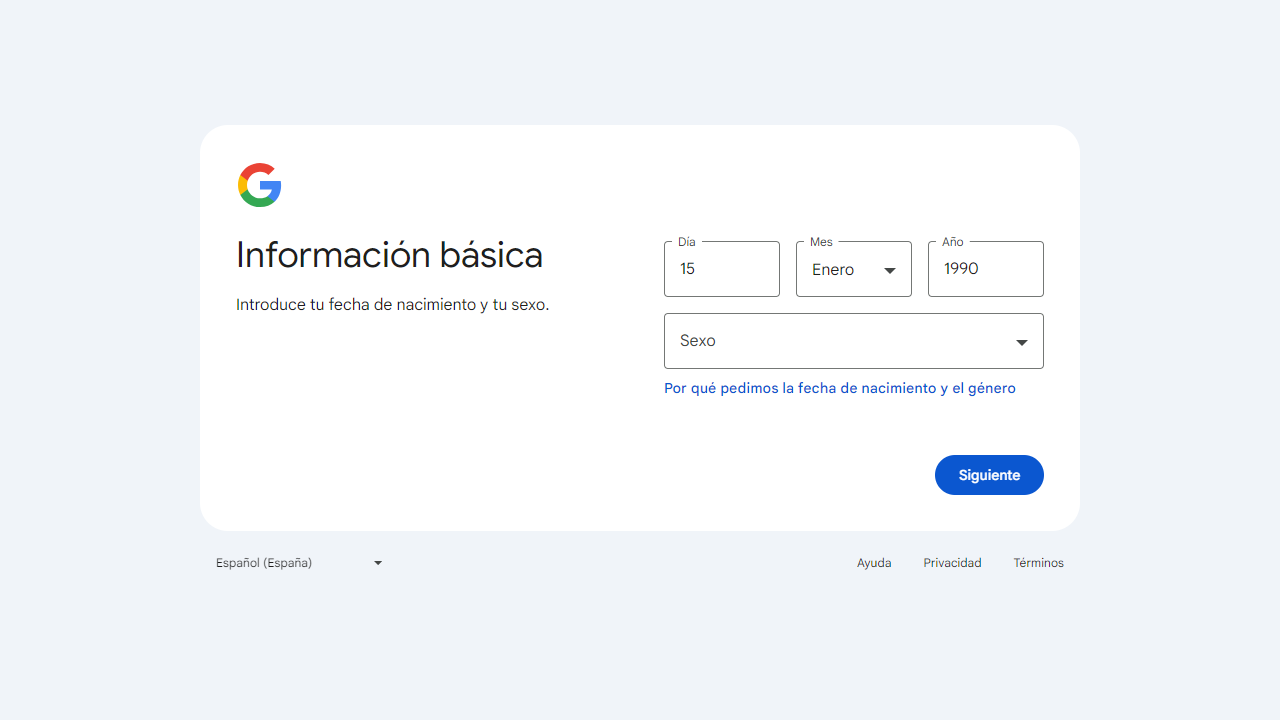
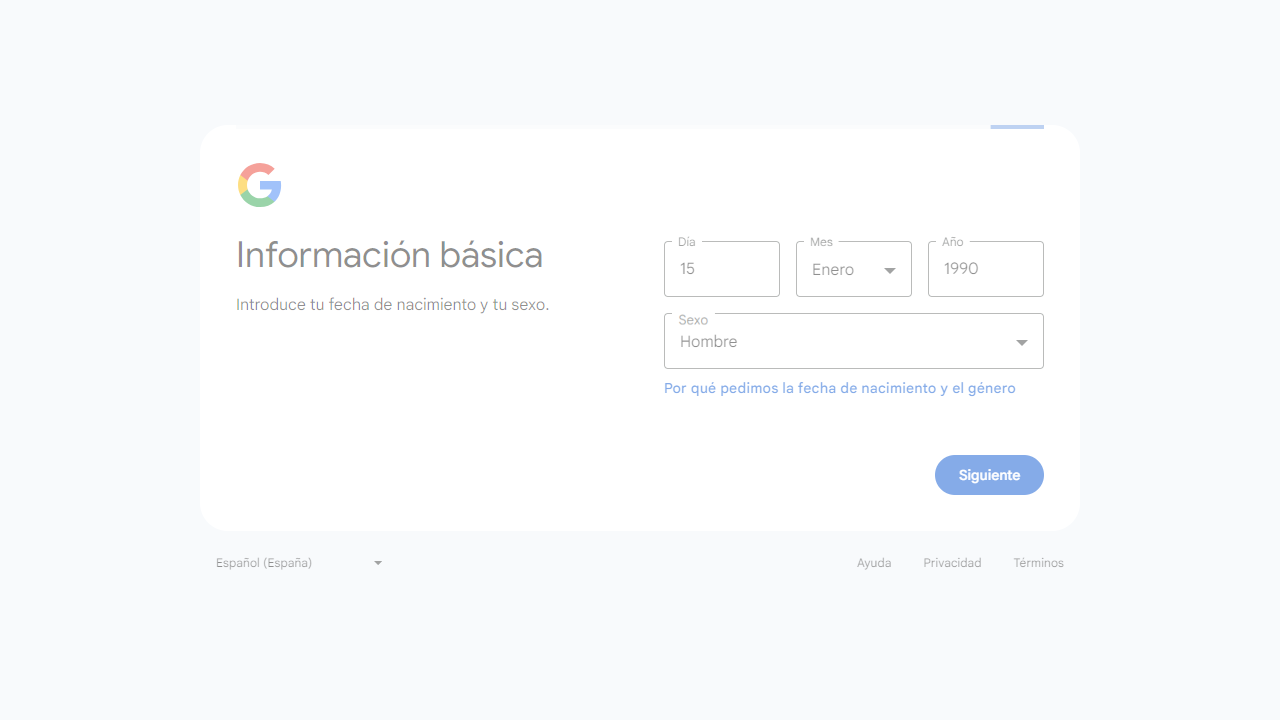
ya pasa las primeras dos paginas. seguimoos con la teercera

diff --git a/main.py b/main.py
@@ -1,4 +1,5 @@
 import argparse
+import time
 from playwright.sync_api import sync_playwright
 
 def run(playwright, first_name, last_name, birth_month, birth_day, birth_year, gender):
@@ -34,17 +35,36 @@ def run(playwright, first_name, last_name, birth_month, birth_day, birth_year, g
         page.wait_for_selector("#year")
         page.fill("#year", birth_year)
 
+        # Normalizar género
+        if gender.lower() in ["masculino", "hombre"]:
+            gender_normalized = "Hombre"
+        elif gender.lower() in ["femenino", "mujer"]:
+            gender_normalized = "Mujer"
+        else:
+            raise ValueError("Género no reconocido. Usa 'Masculino/Hombre' o 'Femenino/Mujer'.")
+
         # Seleccionar género
+        page.wait_for_selector("#gender")
         page.click("#gender")
-        page.select_option("#gender", gender)
+        page.select_option("#gender", label=gender_normalized)
 
         # Clic en el botón de siguiente en la segunda pantalla
-        page.wait_for_selector("#personalDetailsNext")
-        page.click("#personalDetailsNext")
+        #page.wait_for_selector("button[jsname='V67aGc']")
+        #page.click("button[jsname='V67aGc']")
+
+        # Clic en el botón de siguiente en la segunda pantalla usando XPath
+        page.wait_for_selector("//span[text()='Siguiente']/ancestor::button")
+        page.click("//span[text()='Siguiente']/ancestor::button")
+
+        # Espera adicional para verificar que la acción se complete
+        time.sleep(5)
 
     except Exception as e:
         print(f"Error: {e}")
         page.screenshot(path="error_screenshot.png")
+
+        # Espera adicional para depuración antes de cerrar el navegador
+    time.sleep(10)
     
     # Aquí podrías agregar más lógica para manejar el flujo completo del registro
 
@@ -57,7 +77,7 @@ if __name__ == "__main__":
     parser.add_argument("--birth_month", required=True, help="Mes de nacimiento (Enero, Febrero, etc.)")
     parser.add_argument("--birth_day", required=True, help="Día de nacimiento")
     parser.add_argument("--birth_year", required=True, help="Año de nacimiento")
-    parser.add_argument("--gender", required=True, help="Género (Masculino, Femenino)")
+    parser.add_argument("--gender", required=True, choices=["Masculino", "Hombre", "Femenino", "Mujer"], help="Género (Masculino/Hombre, Femenino/Mujer)")
 
     args = parser.parse_args()
 
